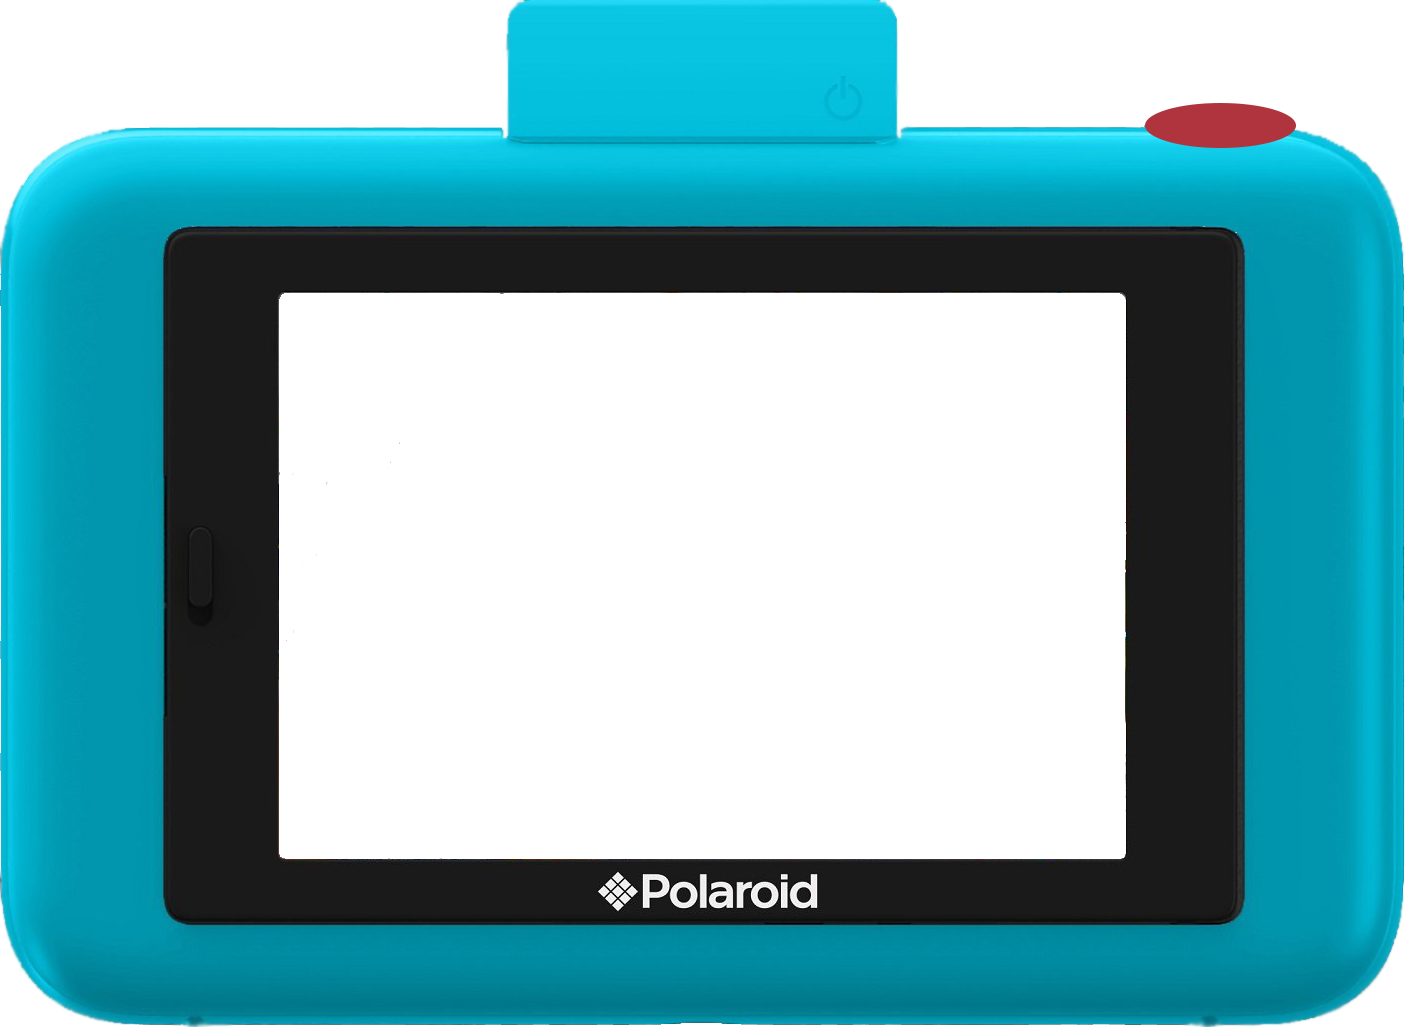
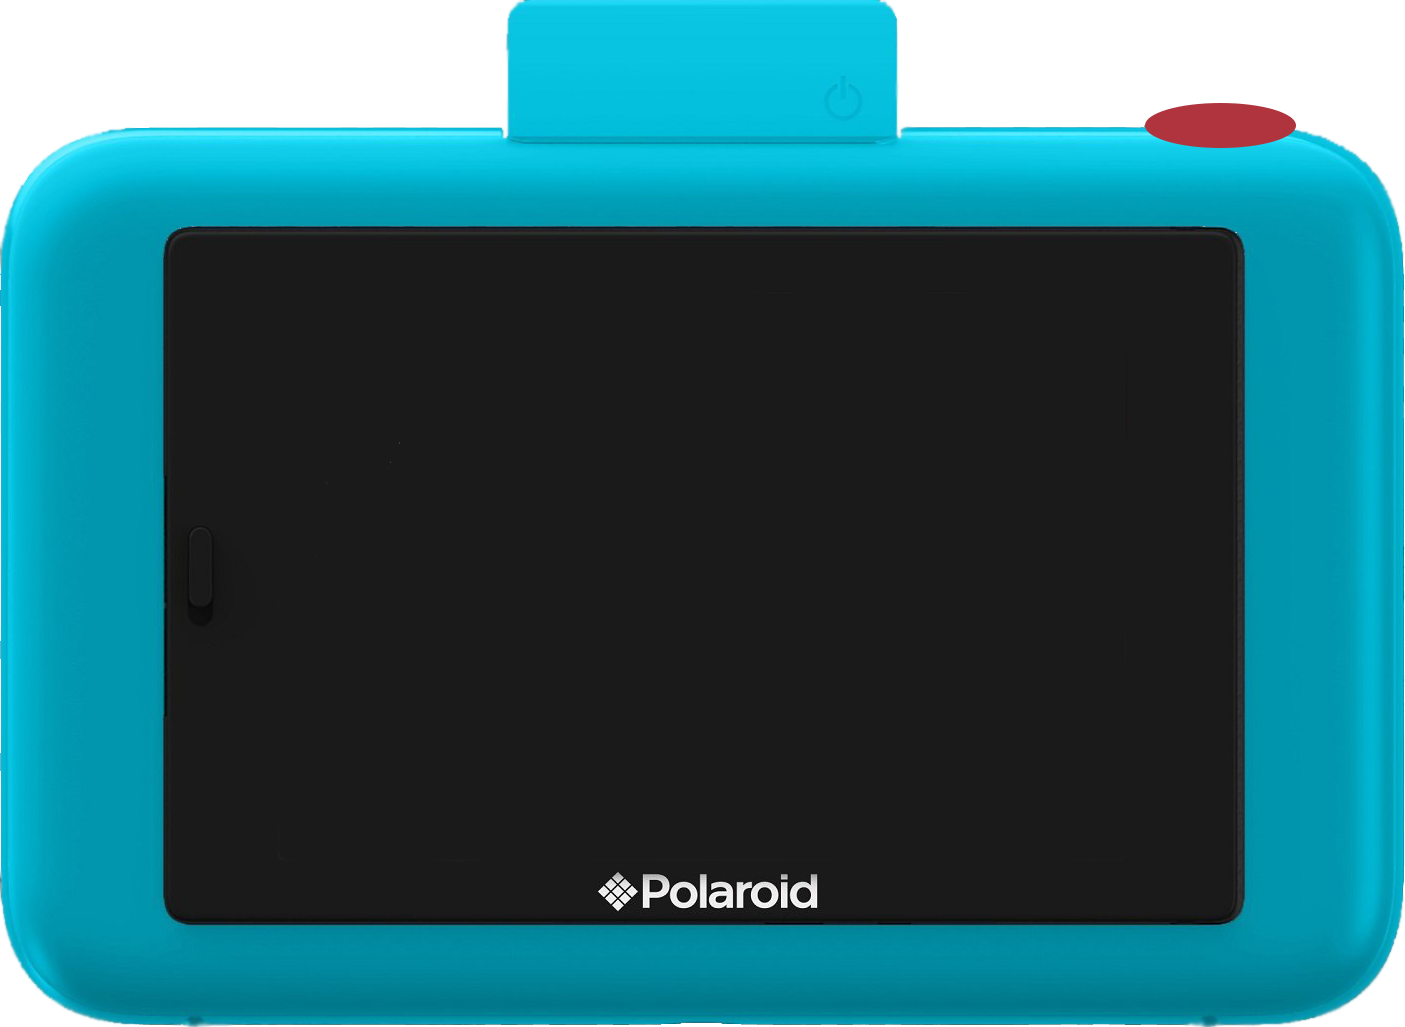
improve photo saving

diff --git a/src/components/Photo.js b/src/components/Photo.js
@@ -3,6 +3,45 @@ import styled from 'styled-components';
 import AlbumContext from '../AlbumContext';
 import { ReactComponent as Delete } from '../assets/delete.svg';
 
+const Photo = ({ photo }) => {
+    const { editPhoto, deletePhoto } = useContext(AlbumContext);
+    const { id, image, note } = photo;
+    const [editing, setEditing] = useState(false);
+    const [newNote, setNewNote] = useState(note);
+
+    return (
+        <LargePolaroid onClick={() => setEditing(true)}>
+            <div className="photo-container">
+                <img className="large-photo" src={image} alt="Polaroid" />
+            </div>
+            {editing ? (
+                <form
+                    onSubmit={e => {
+                        e.preventDefault();
+                        editPhoto(id, newNote);
+                        setEditing(false);
+                    }}
+                >
+                    <input
+                        className="note-input"
+                        value={newNote}
+                        maxlength="26"
+                        onChange={e => setNewNote(e.target.value)}
+                    />
+                    <button className="save-button" type="submit">
+                        Save
+                    </button>
+                    <div role="button" onClick={() => deletePhoto(id)}>
+                        <Delete className="delete-button" />
+                    </div>
+                </form>
+            ) : (
+                <div className="large-note">{newNote}</div>
+            )}
+        </LargePolaroid>
+    );
+};
+
 const LargePolaroid = styled.div`
     position: relative;
     width: 320px;
@@ -67,44 +106,5 @@ const LargePolaroid = styled.div`
         cursor: pointer;
     }
 `;
-
-const Photo = ({ photo }) => {
-    const { editPhoto, deletePhoto } = useContext(AlbumContext);
-    const { id, image, note } = photo;
-    const [editing, setEditing] = useState(false);
-    const [newNote, setNewNote] = useState(note);
-
-    return (
-        <LargePolaroid onClick={() => setEditing(true)}>
-            <div className="photo-container">
-                <img className="large-photo" src={image} alt="Polaroid" />
-            </div>
-            {editing ? (
-                <form
-                    onSubmit={e => {
-                        e.preventDefault();
-                        editPhoto(id, newNote);
-                        setEditing(false);
-                    }}
-                >
-                    <input
-                        className="note-input"
-                        value={newNote}
-                        maxlength="26"
-                        onChange={e => setNewNote(e.target.value)}
-                    />
-                    <button className="save-button" type="submit">
-                        Save
-                    </button>
-                    <div role="button" onClick={() => deletePhoto(id)}>
-                        <Delete className="delete-button" />
-                    </div>
-                </form>
-            ) : (
-                <div className="large-note">{newNote}</div>
-            )}
-        </LargePolaroid>
-    );
-};
 
 export default Photo;

diff --git a/src/components/Album.js b/src/components/Album.js
@@ -6,6 +6,27 @@ import AlbumContext from '../AlbumContext';
 import CorkBoard from '../assets/corkboard.jpg';
 import { ReactComponent as BackArrow } from '../assets/backarrow.svg';
 
+const Album = () => {
+    const { photoAlbum } = useContext(AlbumContext);
+    return (
+        <Board>
+            <Link to="/">
+                <BackArrow className="back-arrow" />
+            </Link>
+            <div className="header-container">
+                <span className="add-note">Click a photo to add a note</span>
+            </div>
+            <Photos>
+                {photoAlbum.map(photo => (
+                    <li className="board-photo" key={photo.id}>
+                        <Photo photo={photo} />
+                    </li>
+                ))}
+            </Photos>
+        </Board>
+    );
+};
+
 const Board = styled.div`
     width: 100vw;
     min-height: 100vh;
@@ -63,25 +84,5 @@ const Photos = styled.ul`
         }
     }
 `;
-const Album = () => {
-    const { photoAlbum } = useContext(AlbumContext);
-    return (
-        <Board>
-            <Link to="/">
-                <BackArrow className="back-arrow" />
-            </Link>
-            <div className="header-container">
-                <span className="add-note">Click a photo to add a note</span>
-            </div>
-            <Photos>
-                {photoAlbum.map(photo => (
-                    <li className="board-photo" key={photo.id}>
-                        <Photo photo={photo} />
-                    </li>
-                ))}
-            </Photos>
-        </Board>
-    );
-};
 
 export default Album;

diff --git a/src/AlbumContext.js b/src/AlbumContext.js
@@ -34,20 +34,18 @@ export const AlbumProvider = ({ children }) => {
 
     const addPhoto = _photo => {
         const imageId = uniqid('photo-');
-        _photo.toBlob(blob => {
-            const newAlbum = [
-                {
-                    id: imageId,
-                    image: URL.createObjectURL(blob),
-                    note: '',
-                    time: Date.now(),
-                },
-                ...photoAlbum,
-            ];
+        const newAlbum = [
+            {
+                id: imageId,
+                image: _photo.toDataURL('image/jpeg', 0.5),
+                note: '',
+                time: Date.now(),
+            },
+            ...photoAlbum,
+        ];
 
-            newAlbum.sort((a, b) => (a.time > b.time ? -1 : 1));
-            setPhotoAlbum(newAlbum);
-        });
+        newAlbum.sort((a, b) => (a.time > b.time ? -1 : 1));
+        setPhotoAlbum(newAlbum);
     };
 
     const getPhotoInfoById = id => {

diff --git a/src/components/Gate.js b/src/components/Gate.js
@@ -2,6 +2,14 @@ import React from 'react';
 import styled from 'styled-components';
 import Desk from '../assets/desk.jpg';
 
+const Gate = () => {
+    return (
+        <Container>
+            <h1>Please view on Desktop for the best experience</h1>
+        </Container>
+    );
+};
+
 const Container = styled.div`
     background-image: url(${Desk});
     background-position: center;
@@ -12,12 +20,5 @@ const Container = styled.div`
     justify-content: center;
     align-items: center;
 `;
-const Gate = () => {
-    return (
-        <Container>
-            <h1>Please view on Desktop for the best experience</h1>
-        </Container>
-    );
-};
 
 export default Gate;

diff --git a/src/components/Camera.js b/src/components/Camera.js
@@ -76,10 +76,8 @@ const Cam = styled.div`
     background-position: center;
     transform: scale(0.7);
     .video {
-        height: 56%;
-        margin-top: 75px;
-        border-left: 40px solid #1a1a1a;
-        border-right: 41px solid #1a1a1a;
+        height: 60%;
+        margin-top: 50px;
     }
 
     .shutter-button {
@@ -111,7 +109,6 @@ const Message = styled.div`
     cursor: pointer;
     font-size: 1.7rem;
     color: #f4f4ef;
-    background-color: #1a1a1a;
 `;
 
 export default Camera;
